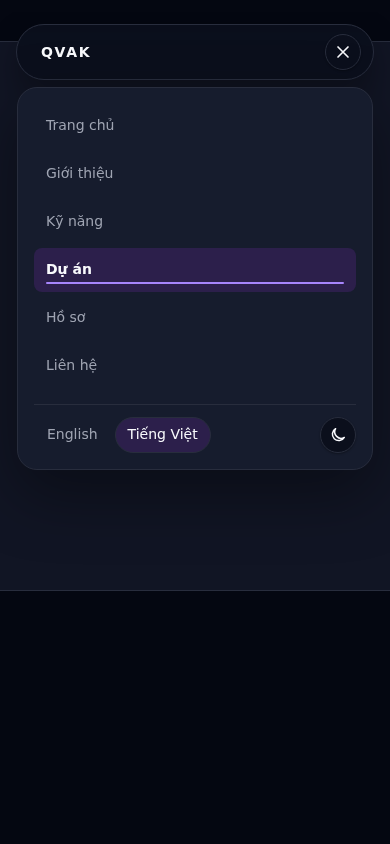
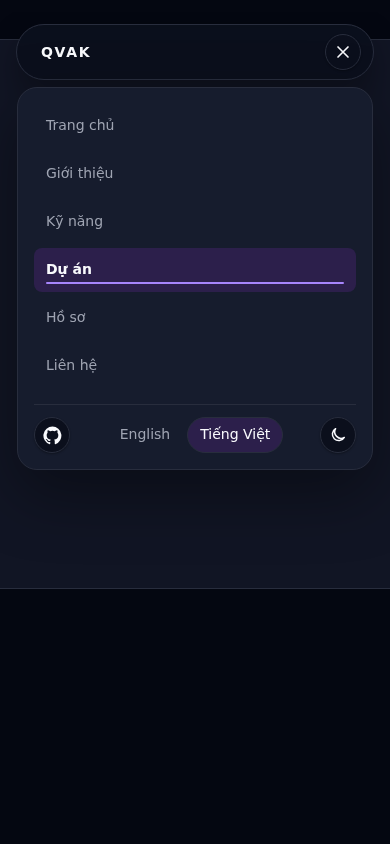
fix: wire GitHub profile in header

Changed region(s): [[0.2769, 0.4929, 0.7385, 0.5545], [0.0923, 0.4929, 0.2462, 0.5237]]

diff --git a/src/components/navigation/site-header.tsx b/src/components/navigation/site-header.tsx
@@ -16,7 +16,7 @@ import {
 import { ThemeToggle } from "@/features/theme/theme-toggle";
 
 interface SiteHeaderProps {
-  githubUrl?: string;
+  githubUrl: string;
   locale: Locale;
   localeSwitcherMessages: LocaleSwitcherMessages;
   messages: HeaderMessages;
@@ -188,26 +188,24 @@ export function SiteHeader({
             </nav>
 
             <div className="site-header__actions">
-              {githubUrl ? (
-                <a
-                  aria-label={messages.github}
-                  className="site-header__icon-action"
-                  href={githubUrl}
-                  rel="noreferrer"
-                  target="_blank"
-                  title={messages.github}
+              <a
+                aria-label={messages.github}
+                className="site-header__icon-action"
+                href={githubUrl}
+                rel="noopener noreferrer"
+                target="_blank"
+                title={messages.github}
+              >
+                <svg
+                  aria-hidden="true"
+                  fill="currentColor"
+                  height="19"
+                  viewBox="0 0 24 24"
+                  width="19"
                 >
-                  <svg
-                    aria-hidden="true"
-                    fill="currentColor"
-                    height="19"
-                    viewBox="0 0 24 24"
-                    width="19"
-                  >
-                    <path d="M12 .7a11.5 11.5 0 0 0-3.64 22.41c.58.11.79-.25.79-.56v-2.23c-3.22.7-3.9-1.37-3.9-1.37-.53-1.34-1.29-1.7-1.29-1.7-1.05-.72.08-.71.08-.71 1.17.08 1.78 1.2 1.78 1.2 1.04 1.78 2.72 1.27 3.38.97.1-.75.4-1.27.74-1.56-2.57-.29-5.27-1.28-5.27-5.69 0-1.26.45-2.28 1.19-3.09-.12-.29-.52-1.47.11-3.05 0 0 .97-.31 3.16 1.18a10.9 10.9 0 0 1 5.75 0c2.19-1.49 3.15-1.18 3.15-1.18.64 1.58.24 2.76.12 3.05.74.81 1.19 1.83 1.19 3.09 0 4.42-2.71 5.39-5.29 5.68.42.36.79 1.06.79 2.14v3.17c0 .31.21.68.8.56A11.5 11.5 0 0 0 12 .7Z" />
-                  </svg>
-                </a>
-              ) : null}
+                  <path d="M12 .7a11.5 11.5 0 0 0-3.64 22.41c.58.11.79-.25.79-.56v-2.23c-3.22.7-3.9-1.37-3.9-1.37-.53-1.34-1.29-1.7-1.29-1.7-1.05-.72.08-.71.08-.71 1.17.08 1.78 1.2 1.78 1.2 1.04 1.78 2.72 1.27 3.38.97.1-.75.4-1.27.74-1.56-2.57-.29-5.27-1.28-5.27-5.69 0-1.26.45-2.28 1.19-3.09-.12-.29-.52-1.47.11-3.05 0 0 .97-.31 3.16 1.18a10.9 10.9 0 0 1 5.75 0c2.19-1.49 3.15-1.18 3.15-1.18.64 1.58.24 2.76.12 3.05.74.81 1.19 1.83 1.19 3.09 0 4.42-2.71 5.39-5.29 5.68.42.36.79 1.06.79 2.14v3.17c0 .31.21.68.8.56A11.5 11.5 0 0 0 12 .7Z" />
+                </svg>
+              </a>
               <LocaleSwitcher
                 locale={locale}
                 messages={localeSwitcherMessages}

diff --git a/src/app/[locale]/layout.tsx b/src/app/[locale]/layout.tsx
@@ -1,6 +1,7 @@
 import type { ReactNode } from "react";
 
 import { SiteHeader } from "@/components/navigation/site-header";
+import { portfolioProfile } from "@/content/profile";
 import { locales } from "@/features/i18n/config";
 import { getMessages } from "@/features/i18n/messages";
 import { getLocaleFromParams } from "@/features/i18n/server";
@@ -33,6 +34,7 @@ export default async function LocaleLayout({
       <body>
         <ThemeProvider>
           <SiteHeader
+            githubUrl={portfolioProfile.githubUrl}
             locale={locale}
             localeSwitcherMessages={messages.localeSwitcher}
             messages={messages.header}

diff --git a/src/content/profile.ts b/src/content/profile.ts
@@ -1,0 +1,3 @@
+export const portfolioProfile = {
+  githubUrl: "https://github.com/Akbi47",
+} as const;
